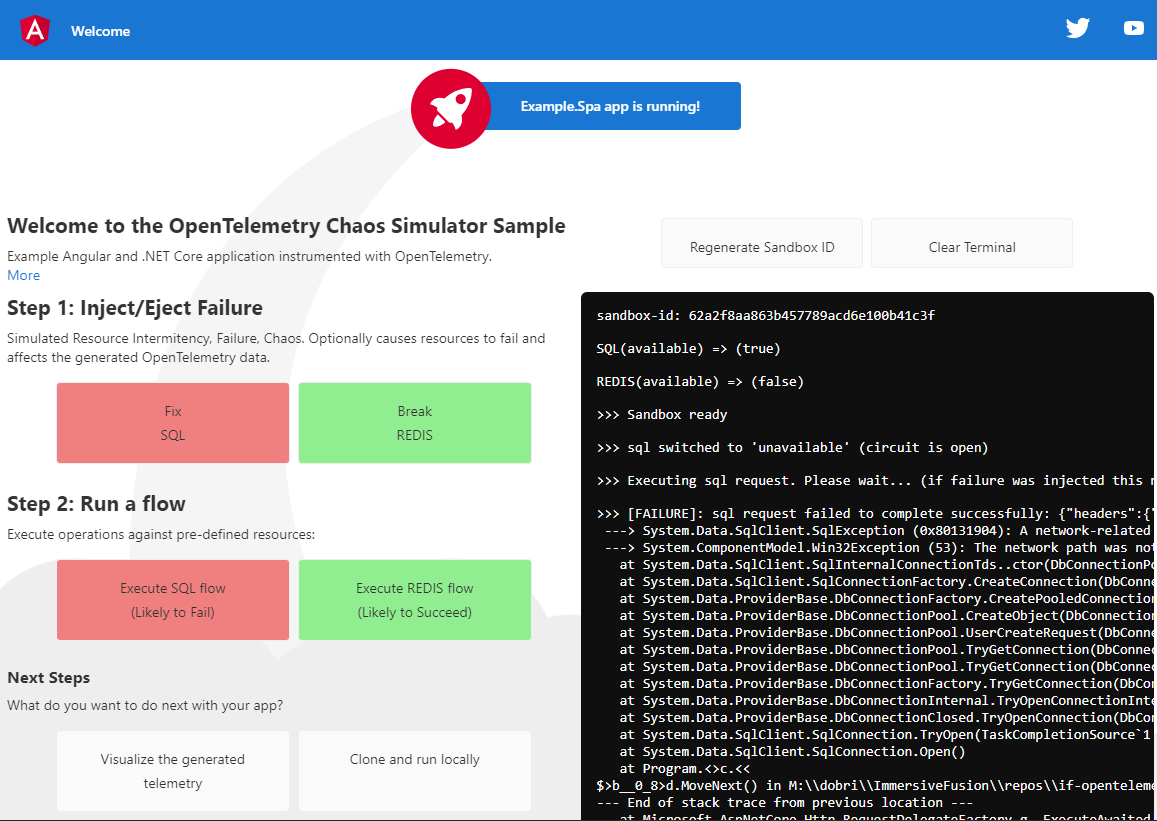
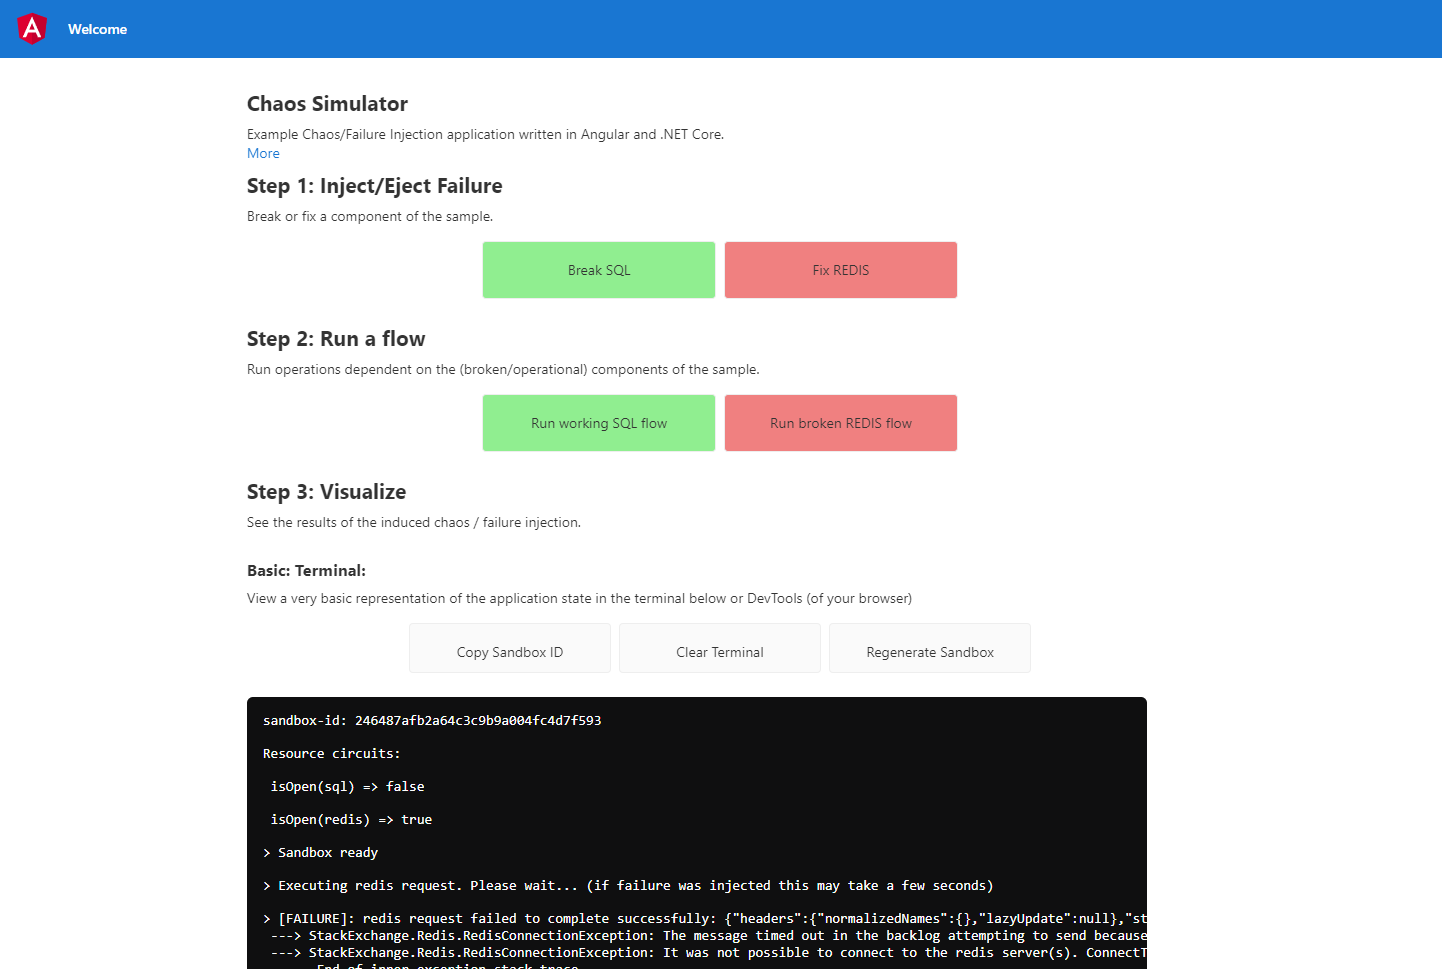
UX/UI.

diff --git a/src/Example.Spa/src/styles.scss b/src/Example.Spa/src/styles.scss
@@ -193,7 +193,7 @@ body {
     margin-top: 8px;
     overflow: auto;
     background-color: rgb(15, 15, 16);
-    max-width: 100%;
+    max-width: 900px;
   }
 
   .terminal pre {
